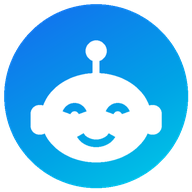
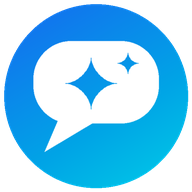
design(tabs): the raised AI button shows a chat bubble with sparks — the AI-assistant mark

Changed region(s): [[0.1562, 0.1875, 0.8438, 0.875], [0.5312, 0.5312, 0.6875, 0.5938]]

diff --git a/DESIGN.md b/DESIGN.md
@@ -45,7 +45,7 @@ iOS (flags on) is a glass-on-colour system.
 - **Cards** are frosted panes, not real glass (a native glass view per list row is too heavy): `glassFill` + `glassLine`, a short bright
   top sheen, no shadow (a shadow would show through the translucent fill). Card-shaped surfaces that are not `<Card>` (rows, panels,
   inputs) use the same two tokens; `surface` stays for opaque things (thumbs, sheets' content). Do not nest cards.
-- The tab bar is the system `NativeTabs` bar; the app's theme is handed to iOS (`Appearance.setColorScheme`) so it matches. The AI tab is a raised button: its slot in the system bar is an empty image, and `AiRaisedButton` stands in it — a brand-gradient disc with a white round, smiling robot head with an antenna (no text) (`assets/tabs/ai-orb*.png`) rising above the bar with no caption and a soft ring that breathes out every few seconds (off with Reduce Motion). The AI tab is always the middle slot (an empty disabled `gap` slot beside it when the tab count is even), so the button is centred on the screen; its height constants are at the top of the file. Glows, aurora and glass spheres were tried and dropped as too flashy for the calm, exact tone.
+- The tab bar is the system `NativeTabs` bar; the app's theme is handed to iOS (`Appearance.setColorScheme`) so it matches. The AI tab is a raised button: its slot in the system bar is an empty image, and `AiRaisedButton` stands in it — a brand-gradient disc with a white chat bubble with two sparks cut into it (no text) (`assets/tabs/ai-orb*.png`) rising above the bar with no caption and a soft ring that breathes out every few seconds (off with Reduce Motion). The AI tab is always the middle slot (an empty disabled `gap` slot beside it when the tab count is even), so the button is centred on the screen; its height constants are at the top of the file. Glows, aurora and glass spheres were tried and dropped as too flashy for the calm, exact tone.
 
 ## Materials (Android — Material 3 Expressive)
 
